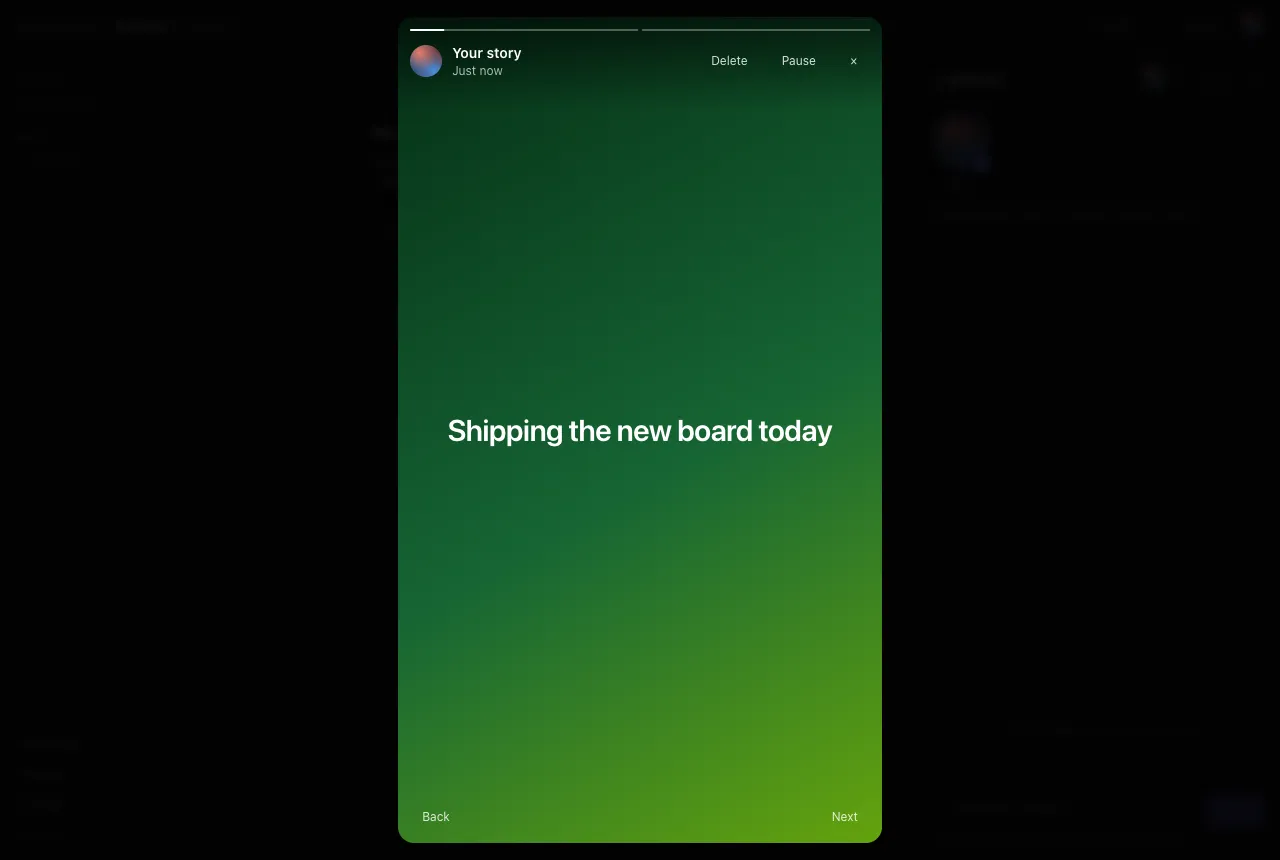
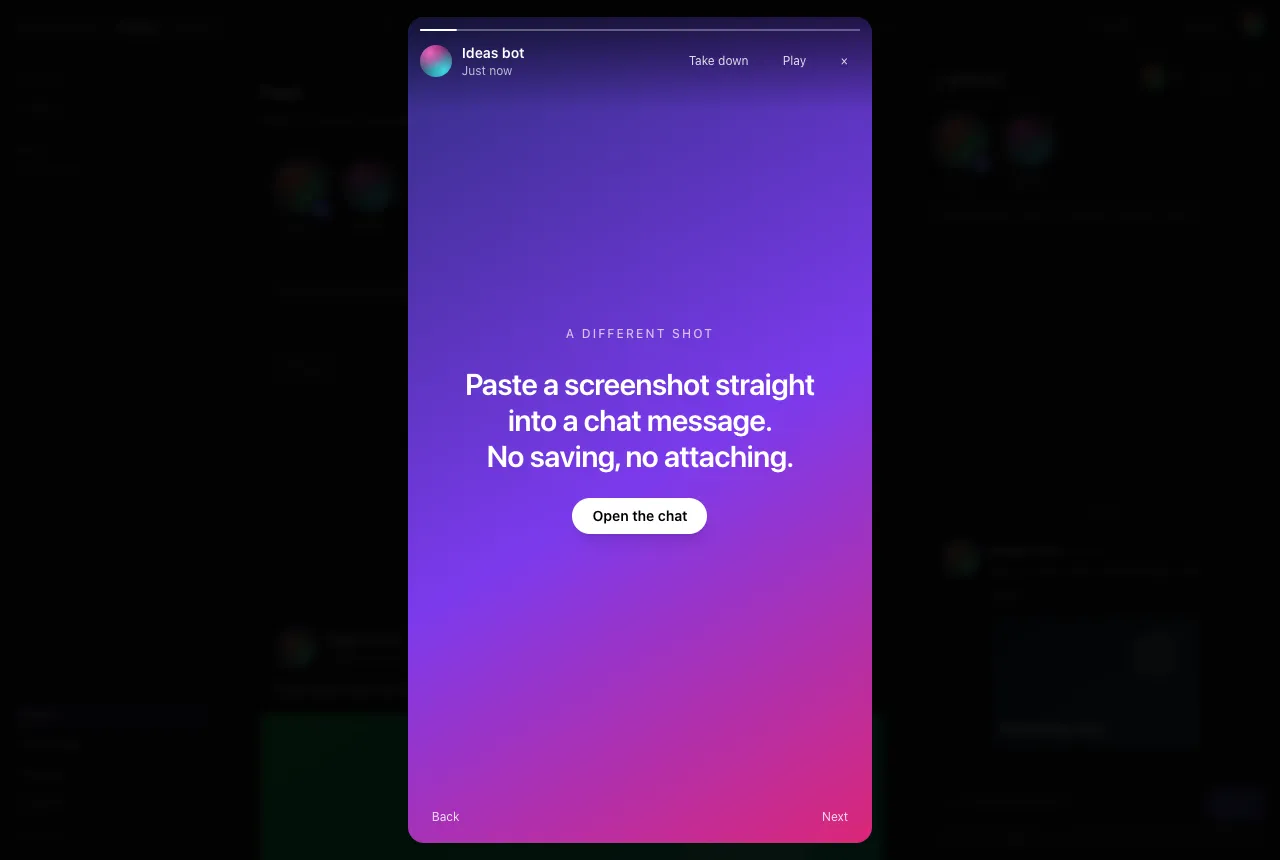
docs: README screenshots of stories, a Different shot, a profile and a chat picture
Four screenshots from the running app, taken in headless Chrome with a
throwaway account and made-up content (no demo account, no real
photos): the Feed with its stories and caught-up line, a Different shot
full screen with its Try it, a profile, and a picture in chat. They
replace the two sparse ones added earlier today.

Also fixes what they showed: a story ring round a chat author's picture
stretched into a tall pill; it now keeps its circle. Your own ring is
read out as "Your story" rather than "Your's story".

Checked: lint, typecheck, knip, docs:links, the story and doc tests.

diff --git a/frontend/features/stories/story-ring.tsx b/frontend/features/stories/story-ring.tsx
@@ -14,9 +14,12 @@ export function StoryRing({
   name,
   children,
   inline = false,
+  label,
 }: {
   userId: string;
   name: string;
+  /** What a screen reader hears, when not "<name>'s story". */
+  label?: string;
   children: ReactNode;
   /** In a row of text: the ring sits outside the picture's own box, so nothing moves. */
   inline?: boolean;
@@ -33,8 +36,8 @@ export function StoryRing({
         event.stopPropagation();
         stories.open(userId);
       }}
-      aria-label={`${name}'s story${unseen ? ', not seen yet' : ''}`}
-      className={`story-ring inline-flex shrink-0 ${inline ? '-m-[3.5px]' : ''} rounded-full p-[2px] transition-transform active:scale-95 focus-visible:outline-none focus-visible:ring-2 focus-visible:ring-accent-soft`}
+      aria-label={`${label ?? `${name}'s story`}${unseen ? ', not seen yet' : ''}`}
+      className={`story-ring inline-flex h-fit shrink-0 self-start ${inline ? '-m-[3.5px]' : ''} rounded-full p-[2px] transition-transform active:scale-95 focus-visible:outline-none focus-visible:ring-2 focus-visible:ring-accent-soft`}
       data-unseen={unseen || undefined}
     >
       <span className="inline-flex rounded-full bg-raised p-[1.5px]">{children}</span>

diff --git a/frontend/features/chat/message-list.tsx b/frontend/features/chat/message-list.tsx
@@ -174,7 +174,7 @@ function MessageRow({
           {formatTime(message.createdAt)}
         </span>
       ) : (
-        <span className="mt-0.5 inline-flex shrink-0">
+        <span className="mt-0.5 inline-flex shrink-0 items-start self-start">
           <StoryRing userId={message.authorId} name={message.authorName} inline>
             <Avatar name={message.authorName} seed={message.authorId} avatar={avatar} size="md" />
           </StoryRing>

diff --git a/frontend/features/stories/stories-strip.tsx b/frontend/features/stories/stories-strip.tsx
@@ -49,7 +49,7 @@ function YourStory({ me }: { me: Member }) {
     <div className="flex w-14 shrink-0 flex-col items-center gap-1">
       <div className="relative">
         {iHaveOne ? (
-          <StoryRing userId={me.userId} name="Your">
+          <StoryRing userId={me.userId} name={me.name} label="Your story">
             {picture}
           </StoryRing>
         ) : (

diff --git a/README.md b/README.md
@@ -107,8 +107,12 @@ photos are stored without their location.
 
 <table>
   <tr>
-    <td width="62%"><img src="imgs/29-feed.webp" alt="The Feed: stories along the top, a composer, and a photo post"></td>
-    <td width="38%"><img src="imgs/30-story.webp" alt="A story playing full screen"></td>
+    <td width="50%"><img src="imgs/29-feed.webp" alt="The Feed: stories along the top, a composer, the caught-up line and a photo post"></td>
+    <td width="50%"><img src="imgs/30-story.webp" alt="A Different shot from an agent, full screen, with its Open the chat button"></td>
+  </tr>
+  <tr>
+    <td width="50%"><img src="imgs/31-profile.webp" alt="A profile: cover, title, working-on line, recent activity and shared pictures"></td>
+    <td width="50%"><img src="imgs/32-chat-picture.webp" alt="A picture posted in chat, beside the board"></td>
   </tr>
 </table>
 

diff --git a/COMPLETE_APP_SUMMARY.md b/COMPLETE_APP_SUMMARY.md
@@ -16,7 +16,7 @@ Written to be checkable. Every row names a file you can open.
 | Database tables | 18 |
 | HTTP endpoints | 150 |
 | Tests | Counted in [docs/ROADMAP.md](docs/ROADMAP.md), the one place they are kept |
-| Screenshots | 30, all captured from the running app |
+| Screenshots | 32, all captured from the running app |
 | Measured throughput | ~3,600 req/s, zero errors |
 
 ---
